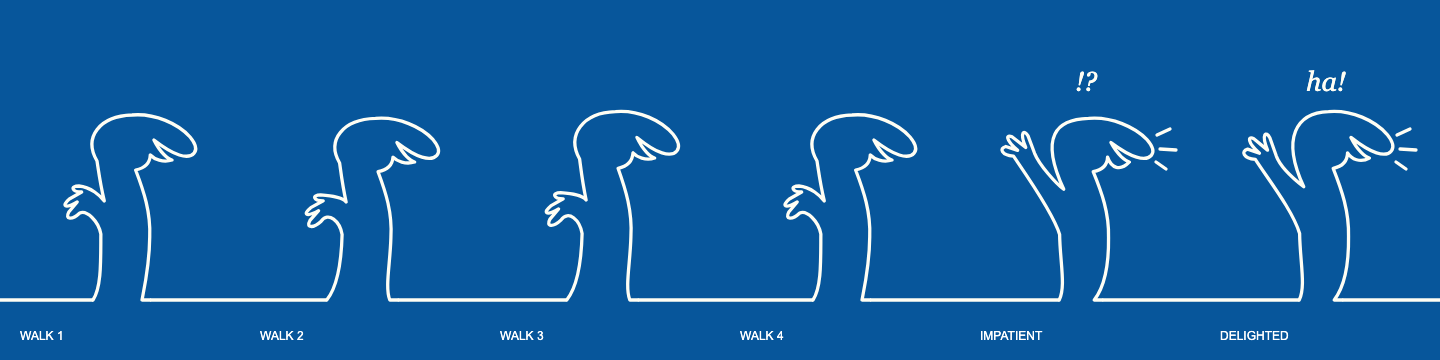
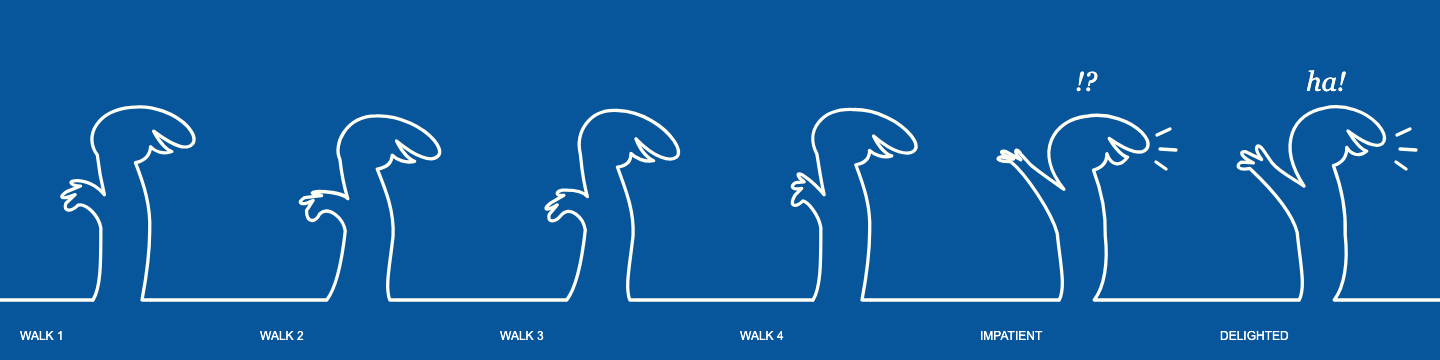
Make partial drawings walkable and animate contours with a projected 3D rig

diff --git a/src/platformer/rig.js b/src/platformer/rig.js
@@ -1,0 +1,61 @@
+import {Bone, OrthographicCamera, Vector3} from 'three';
+
+const clamp=(x)=>Math.max(0,Math.min(1,x));
+const smooth=(x)=>{x=clamp(x);return x*x*(3-2*x);};
+const camera=new OrthographicCamera(-256,256,256,-256,.1,2000);
+camera.position.z=800;camera.updateMatrixWorld();
+
+// A small 3D skeleton skins the original ink contour rather than replacing it
+// with a shaded mesh. Depth is discarded only after the bones have articulated.
+const root=new Bone(),hips=new Bone(),spine=new Bone(),head=new Bone(),arm=new Bone();
+root.add(hips);hips.position.y=-64;
+hips.add(spine);spine.position.y=-48;
+spine.add(head);head.position.y=-28;
+spine.add(arm);arm.position.set(-22,4,18);
+const vertex=new Vector3(),posed=new Vector3(),part=new Vector3();
+const hipRest=new Vector3(0,-64,0),spineRest=new Vector3(0,-112,0),headRest=new Vector3(0,-140,0),armRest=new Vector3(-22,-108,18);
+
+export function contourRig(p,time,playing=true){
+  const motion=playing&&p.grounded?Math.min(1,Math.abs(p.vx)/260):0;
+  const phase=p.walk;
+  const swing=Math.sin(phase),double=Math.cos(phase*2);
+  const mood=p.mood??'neutral';
+  const asking=['ask','watch','curious'].includes(mood);
+  const upset=['panic','impatient'].includes(mood);
+  const breath=Math.sin(time*2.5);
+  const crouch=p.anticipation>0?Math.sin(p.anticipation/.07*Math.PI)*.18:p.land>0?Math.sin(p.land/.15*Math.PI)*.14:0;
+  const rise=!p.grounded?clamp(p.vy/620)*.08:0;
+  const airborne=p.grounded?0:Math.max(-1,Math.min(1,p.vy/620));
+  root.scale.set(1/Math.sqrt(1-crouch+rise),1-crouch+rise,1/Math.sqrt(1-crouch+rise));
+  // Hips, ribcage, and head counter-rotate with different phases. These are
+  // genuine rotations in depth, so the projecting arm changes apparent length.
+  hips.rotation.set(motion*.07*swing,motion*.22*swing,motion*.035*swing);
+  hips.position.y=-64-motion*(3+double*3)-breath*.7;
+  spine.rotation.set(motion*.055*Math.cos(phase),-motion*.4*swing+(asking?.22:0),
+    (p.bodyLean??motion)*.075+motion*.04*Math.sin(phase-.5));
+  head.rotation.set(.06*breath,-motion*.2*Math.sin(phase-.7)+(asking?-.3:0),
+    -(p.headLean??motion)*.065+motion*.065*Math.sin(phase-.85)+(mood==='embarrassed'?.18:0)+(asking?-.12:0));
+  arm.rotation.set(motion*.95*Math.sin(phase+.5)+(asking?-.45:0)-airborne*.65,
+    motion*.35*Math.cos(phase),motion*.22*Math.sin(phase+.25)+(upset?Math.sin(time*12)*.12:0));
+  root.updateMatrixWorld(true);
+  return (x,y)=>{
+    // Rounded cross-section supplies depth to the otherwise hand-drawn shape.
+    const depth=18*Math.sin(clamp((x+65)/145)*Math.PI)*smooth(-y/75);
+    vertex.set(x,y,depth);
+    const upper=smooth((-y-72)/55);
+    const hand=smooth((-x-25)/22)*smooth((-y-68)/25)*(1-smooth((-y-168)/15));
+    const skull=smooth((-y-125)/33)*(1-hand);
+    const weights=[(1-upper)*(1-hand),upper*(1-skull)*(1-hand),upper*skull,hand];
+    const sum=weights.reduce((a,b)=>a+b,0);
+    posed.set(0,0,0);
+    for(const [i,bone] of [hips,spine,head,arm].entries()){
+      part.copy(vertex).sub([hipRest,spineRest,headRest,armRest][i]).applyMatrix4(bone.matrixWorld);
+      posed.addScaledVector(part,weights[i]/sum);
+    }
+    // Keep the foot contacts on the terrain; let the rest of the body follow
+    // the skeleton. This also keeps the silhouette joined to the ground line.
+    posed.lerp(vertex,1-smooth(-y/65));
+    posed.project(camera);
+    return [posed.x*256,posed.y*256];
+  };
+}

diff --git a/src/platformer/drawing.js b/src/platformer/drawing.js
@@ -1,5 +1,6 @@
+import {contourRig} from './rig.js';
 import {surfaces} from './physics.js';
-import {PUZZLES, drawingTip, liftHeight} from './puzzles.js';
+import {PUZZLES, drawingTip, drawingProgress, liftHeight} from './puzzles.js';
 export const INK='#fffef4';
 export const BLUE='#07569b';
 
@@ -16,7 +17,7 @@ function terrain(){
     if(drawings.done.has(q.id)){
       if(q.id==='spring'||q.id==='door')strokePoints(q.points);
       if(q.id==='lift'){
-        const y=ground-liftHeight(time);
+        const y=ground-liftHeight(time-(drawings.liftStartedAt??0));
         path(c=>{c.moveTo(8695-cam,y);c.lineTo(8695-cam,ground-360);c.bezierCurveTo(8695-cam,ground-380,8730-cam,ground-380,8730-cam,ground-360);c.lineTo(8730-cam,ground-40);});
         path(c=>{c.moveTo(8580-cam,y);c.lineTo(8580-cam,y+18);c.lineTo(8810-cam,y+18);c.lineTo(8810-cam,y);});
       }
@@ -34,7 +35,7 @@ function terrain(){
 function character(){
   const x=p.x-cam,y=ground-p.y;
   if(x<-160||x>vw+160)return;
-  const walking=Math.abs(p.vx)>10&&p.grounded&&state==='playing';
+  const walking=Math.abs(p.vx)>10&&p.grounded&&['playing','paused'].includes(state);
   const stride=walking?Math.sin(p.walk)*18: p.mood==='tap'?Math.sin(time*11)*3:0;
   const bounce=0;
   const emotion=p.mood??'neutral';
@@ -42,18 +43,18 @@ function character(){
   const pointing=['curious','watch','ask'].includes(emotion);
   const nod=walking?Math.sin(p.walk*2)*4:['look','watch','curious'].includes(emotion)?-8:emotion==='embarrassed'?10:0;
   const lean=walking?8+Math.sin(p.walk)*4:pointing?9:emotion==='embarrassed'?12:0;
-  const squish=p.anticipation>0?.22*Math.sin(p.anticipation/.07*Math.PI):p.land>0?Math.sin(p.land/.15*Math.PI)*.16:0;
+  const project=contourRig(p,time,['playing','paused'].includes(state));
   pen.save();pen.translate(x,y);pen.scale(p.facing,1);
   // Erase only the ground under the figure, allowing its contour to become the ground.
   if(p.grounded){pen.fillStyle=BLUE;pen.fillRect(-27-stride*.4,-3,57+stride*.9,6);pen.fillStyle=INK;}
-  pen.translate(0,-bounce);pen.scale(1+squish,1-squish);
+  pen.translate(0,-bounce);
   if(fallTime>0){pen.rotate(Math.sin(fallTime*7)*.12);}
   // One outline: heel, back, gesturing hand, shoulder, enormous nose, chin, belly, toe.
   const warp=(x,y)=>{
     const h=Math.max(0,Math.min(1,-y/185));
     const arm=x<-32&&y<-80&&y>-175;
     const flourish=emotion==='delighted'?Math.sin(time*11)*11:emotion==='panic'?Math.sin(time*22)*15:emotion==='impatient'?Math.sin(time*8)*6:emotion==='shrug'?12:0;
-    return [x+lean*h+(arm?flourish*.25:0),y+nod*h*h+(arm?flourish:0)];
+    return project(x+lean*h+(arm?flourish*.25:0),y+nod*h*h+(arm?flourish:0));
   };
   const c={moveTo:(x,y)=>pen.moveTo(...warp(x,y)),lineTo:(x,y)=>pen.lineTo(...warp(x,y)),bezierCurveTo:(a,b,d,e,f,g)=>pen.bezierCurveTo(...warp(a,b),...warp(d,e),...warp(f,g))};
   pen.beginPath();c.moveTo(-27-stride*.4,bounce);
@@ -106,7 +107,7 @@ function character(){
 
 function pencil(){
   const q=drawings.active;if(!q)return;
-  const progress=Math.max(0,Math.min(1,(drawings.age-.25)/(q.duration-.5)));
+  const progress=drawingProgress(drawings);
   const points=drawingTip(q,progress);strokePoints(points);
   const tip=points.at(-1),lift=drawings.age<.25?(1-drawings.age/.25)*140:drawings.age>q.duration-.25?(drawings.age-q.duration+.25)*560:0;
   pen.save();pen.translate(tip[0]-cam,ground-tip[1]-lift);pen.rotate(.5);

diff --git a/src/platformer/physics.js b/src/platformer/physics.js
@@ -1,4 +1,4 @@
-import {liftHeight} from './puzzles.js';
+import {liftHeight, drawingTip, drawingProgress} from './puzzles.js';
 export const GRAVITY = 1550;
 export const SPEED = 260;
 export const JUMP = 620;
@@ -20,15 +20,25 @@ export const SEGMENTS = [
 ];
 export const REPAIR = {a:2500,b:2740,y:0};
 export function surfaces(drawn=false,time=0){
-  const done=drawn instanceof Set?drawn:new Set(drawn?['bridge']:[]);
+  const done=drawn instanceof Set?drawn:drawn?.done??new Set(drawn?['bridge']:[]);
   const extras=[];
   if(done.has('bridge'))extras.push(REPAIR);
   if(done.has('stairs'))extras.push({a:5600,b:5700,y:60},{a:5700,b:5800,y:120},{a:5800,b:5900,y:180},{a:5900,b:6050,y:240});
-  if(done.has('lift'))extras.push({a:8580,b:8810,y:liftHeight(time),id:'lift',oneWay:true});
+  if(done.has('lift'))extras.push({a:8580,b:8810,y:liftHeight(time-(drawn?.liftStartedAt??0)),id:'lift',oneWay:true});
+  // Only the ink already on the page supports the player. Ignore vertical
+  // strokes and decorative lower edges of the lift carriage.
+  const q=drawn?.active;
+  if(q&&['bridge','stairs','lift'].includes(q.id)){
+    const points=drawingTip(q,drawingProgress(drawn));
+    for(let i=1;i<points.length;i++){
+      const [a,y]=points[i-1],[b,by]=points[i];
+      if(y===by&&b>a&&(q.id!=='lift'||i===1))extras.push({a,b,y,...(q.id==='lift'?{id:'lift',oneWay:true}:{})});
+    }
+  }
   return [...SEGMENTS,...extras].sort((a,b)=>a.a-b.a);
 }
 export function support(x, list){return list.find(s=>x>=s.a && x<=s.b);}
-export function createPlayer(){return {x:430,y:0,vx:0,vy:0,grounded:true,coyote:.11,buffer:0,facing:1,checkpoint:430,falls:0,walk:0,land:0,anticipation:0,launch:0,idle:0,mood:"neutral",moodTime:0,platform:null,platformY:0};}
+export function createPlayer(){return {x:430,y:0,vx:0,vy:0,grounded:true,coyote:.11,buffer:0,facing:1,checkpoint:430,falls:0,walk:0,bodyLean:0,headLean:0,land:0,anticipation:0,launch:0,idle:0,mood:"neutral",moodTime:0,platform:null,platformY:0};}
 export function stepPlayer(p,input,dt,list,drawn=new Set()){
   if(p.grounded&&p.platform){const platform=list.find(s=>s.id===p.platform);if(platform)p.y+=platform.y-p.platformY;}
   let jumped=false;
@@ -38,6 +48,8 @@ export function stepPlayer(p,input,dt,list,drawn=new Set()){
   const target=direction*SPEED;
   p.vx+=Math.sign(target-p.vx)*Math.min(Math.abs(target-p.vx),(direction?1800:2100)*dt);
   if(direction)p.facing=direction;
+  p.bodyLean+=(p.vx*p.facing/SPEED-p.bodyLean)*(1-Math.exp(-dt*12));
+  p.headLean+=(p.bodyLean-p.headLean)*(1-Math.exp(-dt*6));
   if(p.buffer>0&&p.coyote>0&&p.anticipation<=0){p.anticipation=.07;p.buffer=0;}
   if(p.anticipation>0){p.anticipation-=dt;if(p.anticipation<=0){const spring=drawn.has('spring')&&Math.abs(p.x-6900)<65;p.vy=spring?1030:JUMP;p.launch=spring?.65:0;p.grounded=false;p.coyote=0;jumped=true;}}
   if(!input.jump&&p.vy>260&&p.launch<=0)p.vy=Math.max(260,p.vy-GRAVITY*dt*1.5);

diff --git a/tests/puzzles.test.js b/tests/puzzles.test.js
@@ -5,3 +5,33 @@ import {surfaces} from '../src/platformer/physics.js';
 test('all five puzzles draw once, unlock in order, and reject overlapping requests',()=>{const d=createDrawingState();for(const q of PUZZLES){assert.equal(requestDrawing(d,q.near[0]+20)?.id,q.id);assert.equal(requestDrawing(d,q.near[0]+20),null);assert.equal(advanceDrawing(d,q.duration-.01),null);assert.equal(d.done.has(q.id),false);assert.equal(advanceDrawing(d,.02)?.id,q.id);assert.equal(requestDrawing(d,q.near[0]+20),null);}assert.equal(d.done.size,5);});
 test('pencil follows the shape instead of teleporting to a completed drawing',()=>{for(const q of PUZZLES){assert.deepEqual(drawingTip(q,0).at(-1),q.points[0]);const end=drawingTip(q,1).at(-1);assert.ok(Math.hypot(end[0]-q.points.at(-1)[0],end[1]-q.points.at(-1)[1])<1e-6);assert.ok(drawingTip(q,.5).length>1);}});
 test('stairs and lift are absent before drawing and produce usable surfaces afterward',()=>{assert.equal(surfaces().some(s=>s.a===5700),false);assert.equal(surfaces(new Set(['stairs'])).find(s=>s.a===5700).y,120);assert.equal(surfaces().some(s=>s.id==='lift'),false);assert.equal(surfaces(new Set(['lift']),4).find(s=>s.id==='lift').y,250);});
+
+test('half-drawn bridge supports the player only up to the visible pencil tip',async()=>{
+  const {drawingProgress}=await import('../src/platformer/puzzles.js');
+  const {createPlayer,stepPlayer,support}=await import('../src/platformer/physics.js');
+  const d=createDrawingState();requestDrawing(d,2440);d.age=d.active.duration/2;
+  const tip=drawingTip(d.active,drawingProgress(d)).at(-1)[0];
+  assert.equal(tip,2620);
+  const list=surfaces(d);assert.equal(support(2580,list).y,0);assert.equal(support(tip+1,list),undefined);
+  const p=createPlayer();p.x=2530;for(let i=0;i<25;i++)stepPlayer(p,{right:true},1/120,list);
+  assert.ok(p.grounded);assert.equal(p.y,0);
+  p.x=tip+20;p.vx=0;for(let i=0;i<15;i++)stepPlayer(p,{},1/120,list);
+  assert.ok(p.y<0);assert.equal(p.grounded,false);
+});
+test('stair treads are solid as they are traced, without creating the undrawn steps',()=>{
+  const d=createDrawingState();requestDrawing(d,5500);
+  // 210 of 690 stroke units: first tread complete, second riser partly drawn.
+  d.age=.25+(210/690)*(d.active.duration-.5);
+  const list=surfaces(d);
+  assert.deepEqual(list.find(s=>s.a===5600),{a:5600,b:5700,y:60});
+  assert.equal(list.some(s=>s.a===5700),false);
+});
+test('pencil arrival creates no phantom floor and the lift starts where it was drawn',()=>{
+  const d=createDrawingState();requestDrawing(d,8400);d.age=.1;
+  assert.equal(surfaces(d).some(s=>s.id==='lift'),false);
+  d.age=.5;const partial=surfaces(d).find(s=>s.id==='lift');
+  assert.ok(partial.b>8580&&partial.b<8810);assert.equal(partial.y,0);
+  advanceDrawing(d,3);d.liftStartedAt=37;
+  assert.equal(surfaces(d,37).find(s=>s.id==='lift').y,0);
+  assert.equal(surfaces(d,39).find(s=>s.id==='lift').y,125);
+});

diff --git a/tests/platformer.test.js b/tests/platformer.test.js
@@ -7,7 +7,7 @@ test('walking stops at a raised face without teleporting onto it',()=>{const p=c
 test('jump clears and lands on the first step',()=>{const p=createPlayer();p.x=710;p.vx=260;p.buffer=.14;run(p,{right:true,jump:true},.55);run(p,{},.4);assert.ok(p.x>780&&p.x<950);assert.equal(p.y,58);assert.ok(p.grounded);});
 test('releasing jump early reduces its height',()=>{const high=createPlayer(),low=createPlayer();high.buffer=low.buffer=.14;run(high,{jump:true},.3);run(low,{},.3);assert.ok(high.y>low.y+30);});
 test('a pit drops the player and respawn returns them to a checkpoint',()=>{const p=createPlayer();p.x=1310;p.y=58;p.grounded=false;run(p,{},1.1);assert.ok(p.y<-480);p.checkpoint=1440;respawn(p,surfaces());assert.equal(p.x,1440);assert.equal(p.y,0);assert.equal(p.falls,1);});
-test('artist repair adds a solid surface only after completion',()=>{assert.equal(support(2620,surfaces()),undefined);assert.equal(support(2620,surfaces(true)).y,0);const p=createPlayer();p.x=2450;run(p,{right:true},1.2,surfaces(true));assert.ok(p.x>2740);assert.ok(p.grounded);});
+test('completed bridge remains solid across its full span',()=>{assert.equal(support(2620,surfaces()),undefined);assert.equal(support(2620,surfaces(true)).y,0);const p=createPlayer();p.x=2450;run(p,{right:true},1.2,surfaces(true));assert.ok(p.x>2740);assert.ok(p.grounded);});
 test('all designed gaps except the artist puzzle can be cleared',()=>{const list=surfaces(new Set(['bridge','stairs','lift']),4);for(let i=0;i<list.length-1;i++){const left=list[i],right=list[i+1];if(right.a===left.b||left.b===7000)continue;const p=createPlayer();p.x=left.b-22;p.y=left.y;p.vx=260;p.buffer=.14;let landed=false;for(let f=0;f<150;f++){stepPlayer(p,{right:true,jump:true},dt,list);if(p.grounded&&p.x>right.a){landed=true;break;}}assert.ok(landed,`Gap ${left.b} → ${right.a} must be traversable`);}});
 
 test('spring launches the player onto the otherwise unreachable high ledge',()=>{const p=createPlayer();p.x=6890;p.vx=260;p.buffer=.14;const done=new Set(['spring']);let landed=false;for(let i=0;i<200;i++){stepPlayer(p,{right:true,jump:true},dt,surfaces(done),done);if(p.grounded&&p.x>7040&&p.y===230){landed=true;break;}}assert.ok(landed);});

diff --git a/src/main.js b/src/main.js
@@ -55,14 +55,14 @@ function update(dt){
   if(state==='playing'){
     elapsed+=dt;
     const completed=advanceDrawing(drawings,dt);
-    if(completed){$('hint').textContent=completed.thanks;mood('delighted',2);sound(500,.15,.04,650);}
+    if(completed){if(completed.id==='lift')drawings.liftStartedAt=time;$('hint').textContent=completed.thanks;mood('delighted',2);sound(500,.15,.04,650);}
     p.moodTime=Math.max(0,p.moodTime-dt);
     p.idle=p.grounded&&Math.abs(p.vx)<12?p.idle+dt:0;
     const nearby=nearbyPuzzle(p.x,drawings);
     if(p.moodTime===0){p.mood=drawings.active?'watch':nearby?'curious':p.idle%12>9?'shrug':p.idle%12>7?'impatient':p.idle%12>4?'look':p.idle%12>2?'tap':'neutral';}
-    if(fallTime>0){fallTime+=dt;if(fallTime>1.1){respawn(p,surfaces(drawings.done,time));fallTime=0;mood('embarrassed',2);$('hint').textContent='Let’s pretend that didn’t happen.';}}
+    if(fallTime>0){fallTime+=dt;if(fallTime>1.1){respawn(p,surfaces(drawings,time));fallTime=0;mood('embarrassed',2);$('hint').textContent='Let’s pretend that didn’t happen.';}}
     else{
-      const wasGrounded=p.grounded;const result=stepPlayer(p,input,dt,surfaces(drawings.done,time),drawings.done);
+      const wasGrounded=p.grounded;const result=stepPlayer(p,input,dt,surfaces(drawings,time),drawings.done);
       if(result.jumped){mood(p.launch?'surprised':'determined',.6);sound(230,.18,.035,p.launch?850:510);}
       if(!wasGrounded&&p.grounded)sound(115,.07,.04,65);
       if(!p.grounded&&p.y < -60&&p.vy < -300&&p.mood!=='panic')mood('panic',1.5);

diff --git a/tests/rig.test.js b/tests/rig.test.js
@@ -1,0 +1,21 @@
+import test from 'node:test';
+import assert from 'node:assert/strict';
+import {contourRig} from '../src/platformer/rig.js';
+import {createPlayer} from '../src/platformer/physics.js';
+
+test('projected rig pins contact points and remains finite through walk, jump and squash',()=>{
+  const p=createPlayer();p.vx=260;
+  for(let i=0;i<60;i++){
+    p.walk=i/60*Math.PI*2;p.anticipation=i<10?.07-i*.007:0;p.land=i>40?.15-(i-40)*.007:0;
+    const project=contourRig(p,i/60);
+    for(const x of [-27,30]){const foot=project(x,0);assert.ok(Math.abs(foot[0]-x)<1e-8);assert.ok(Math.abs(foot[1])<1e-8);}
+    for(const pt of [[-55,-100],[0,-185],[63,-163],[27,-63]])assert.ok(project(...pt).every(Number.isFinite));
+  }
+});
+test('arm swing foreshortens in projection and head has independent follow-through',()=>{
+  const p=createPlayer();p.vx=260;p.walk=.2;
+  let project=contourRig(p,0);const handA=project(-55,-100),headA=project(63,-163),chestA=project(10,-110);
+  p.walk=2.4;project=contourRig(p,.4);const handB=project(-55,-100),headB=project(63,-163),chestB=project(10,-110);
+  assert.ok(Math.hypot(handA[0]-handB[0],handA[1]-handB[1])>3);
+  assert.ok(Math.abs((headA[0]-chestA[0])-(headB[0]-chestB[0]))>1);
+});

diff --git a/src/platformer/puzzles.js b/src/platformer/puzzles.js
@@ -11,3 +11,6 @@ export function requestDrawing(drawings,x){if(drawings.active)return null;const 
 export function advanceDrawing(drawings,dt){if(!drawings.active)return null;drawings.age+=dt;if(drawings.age<drawings.active.duration)return null;const q=drawings.active;drawings.done.add(q.id);drawings.active=null;drawings.age=0;return q;}
 export function liftHeight(time){const t=((time%8)+8)%8;return t<1?0:t<3?(t-1)*125:t<5?250:t<7?(7-t)*125:0;}
 export function drawingTip(q,progress){const lengths=q.points.slice(1).map((b,i)=>Math.hypot(b[0]-q.points[i][0],b[1]-q.points[i][1]));let remaining=lengths.reduce((a,b)=>a+b,0)*Math.max(0,Math.min(1,progress));const points=[q.points[0]];for(let i=0;i<lengths.length;i++){if(remaining>=lengths[i]){points.push(q.points[i+1]);remaining-=lengths[i];}else{const a=q.points[i],b=q.points[i+1],f=remaining/lengths[i];points.push([a[0]+(b[0]-a[0])*f,a[1]+(b[1]-a[1])*f]);break;}}return points;}
+
+// Shared by rendering and collisions, including pencil arrival/departure.
+export function drawingProgress(drawings){const q=drawings.active;return q?Math.max(0,Math.min(1,(drawings.age-.25)/(q.duration-.5))):0;}

diff --git a/README.md b/README.md
@@ -4,7 +4,7 @@
 
 A short side-scrolling platformer inspired by Osvaldo Cavandoli’s **La Linea**. A flat blue field, rounded white contour, expressive large-nosed figure, and a ground line that becomes the world. The character’s silhouette joins the ground when standing; jumping temporarily separates it for platforming.
 
-Walk across seven sections of steps and gaps, with a route almost twice as long as the first platformer. Ask the artist to draw a bridge, stairs, a spring, a moving lift, and the final door. Each drawing changes traversal: jump from the spring to reach the high ledge, and ride the lift before jumping to its upper landing. Falling returns you to the latest checkpoint; there is no life limit. The old three-button rhythm game has been replaced by movement and platform collision.
+Walk across seven sections of steps and gaps, with a route almost twice as long as the first platformer. Ask the artist to draw a bridge, stairs, a spring, a moving lift, and the final door. Bridge, stair, and lift surfaces become solid as the pencil traces them—you can use the finished portion immediately. Each drawing changes traversal: jump from the spring to reach the high ledge, and ride the lift before jumping to its upper landing. Falling returns you to the latest checkpoint; there is no life limit. The old three-button rhythm game has been replaced by movement and platform collision.
 
 ## Controls
 
@@ -34,12 +34,13 @@ Smooth Bézier outlines are drawn into a canvas texture and displayed by Three.j
 - `src/main.js`: input, state, camera, audio, Three.js rendering
 - `src/platformer/physics.js`: collision, movement, checkpoints, level surfaces
 - `src/platformer/puzzles.js`: five progressive drawing interactions and lift timing
+- `src/platformer/rig.js`: procedural 3D bones, contour skinning, orthographic projection
 - `src/platformer/drawing.js`: continuous contours, poses, scenery, artist pencil
 - `tests/platformer.test.js`: collision and traversal checks
 - `tests/runtime.test.js`: state/input integration using a stub renderer
 - `npm run render:frames`: drawing-code snapshots in `/tmp/linea-review`
 
-The physics and runtime tests do not replace live browser/WebGL testing. The current redesign was verified by production build, thirteen automated checks, and offline drawing frames; browser automation was unavailable during this update.
+Validation includes a production build, 18 automated collision, rig, and runtime checks, offline drawing frames, and a local browser smoke check for walking, jumping, and console errors. The automated tests cover partial drawing support and the lift transition; they do not replace a full playthrough.
 
 ## Visual references
 
@@ -47,4 +48,4 @@ The proportions, white stroke, and flat background were studied from [RAI’s re
 
 ## Character animation
 
-The walk deforms the body contour and shifts the feet and arms. Jump anticipation, landing squash, and vertical camera tracking give actions weight. Idle behavior cycles through foot tapping, looking around, impatience, and shrugging. Unsolved puzzles prompt curiosity; active drawings prompt watching; repeated requests trigger impatience. Completion brings delight, falling brings alarm, and respawning brings embarrassment. Mouth and hand motion vary with the reaction. The controls remain responsive during the reactions.
+A procedural Three.js bone rig drives the ink contour in three dimensions before orthographic projection. Hips and shoulders counter-rotate, the arm swings through depth, and the head follows with a delay. The hand-authored outline remains the visible artwork; this is not a shaded mesh or an imported character model. Foot contacts stay pinned to the ground. Jump anticipation, landing squash, and vertical camera tracking give actions weight. Idle behavior cycles through foot tapping, looking around, impatience, and shrugging. Unsolved puzzles prompt curiosity; active drawings prompt watching; repeated requests trigger impatience. Completion brings delight, falling brings alarm, and respawning brings embarrassment. Mouth and hand motion vary with the reaction. The controls remain responsive during the reactions.
